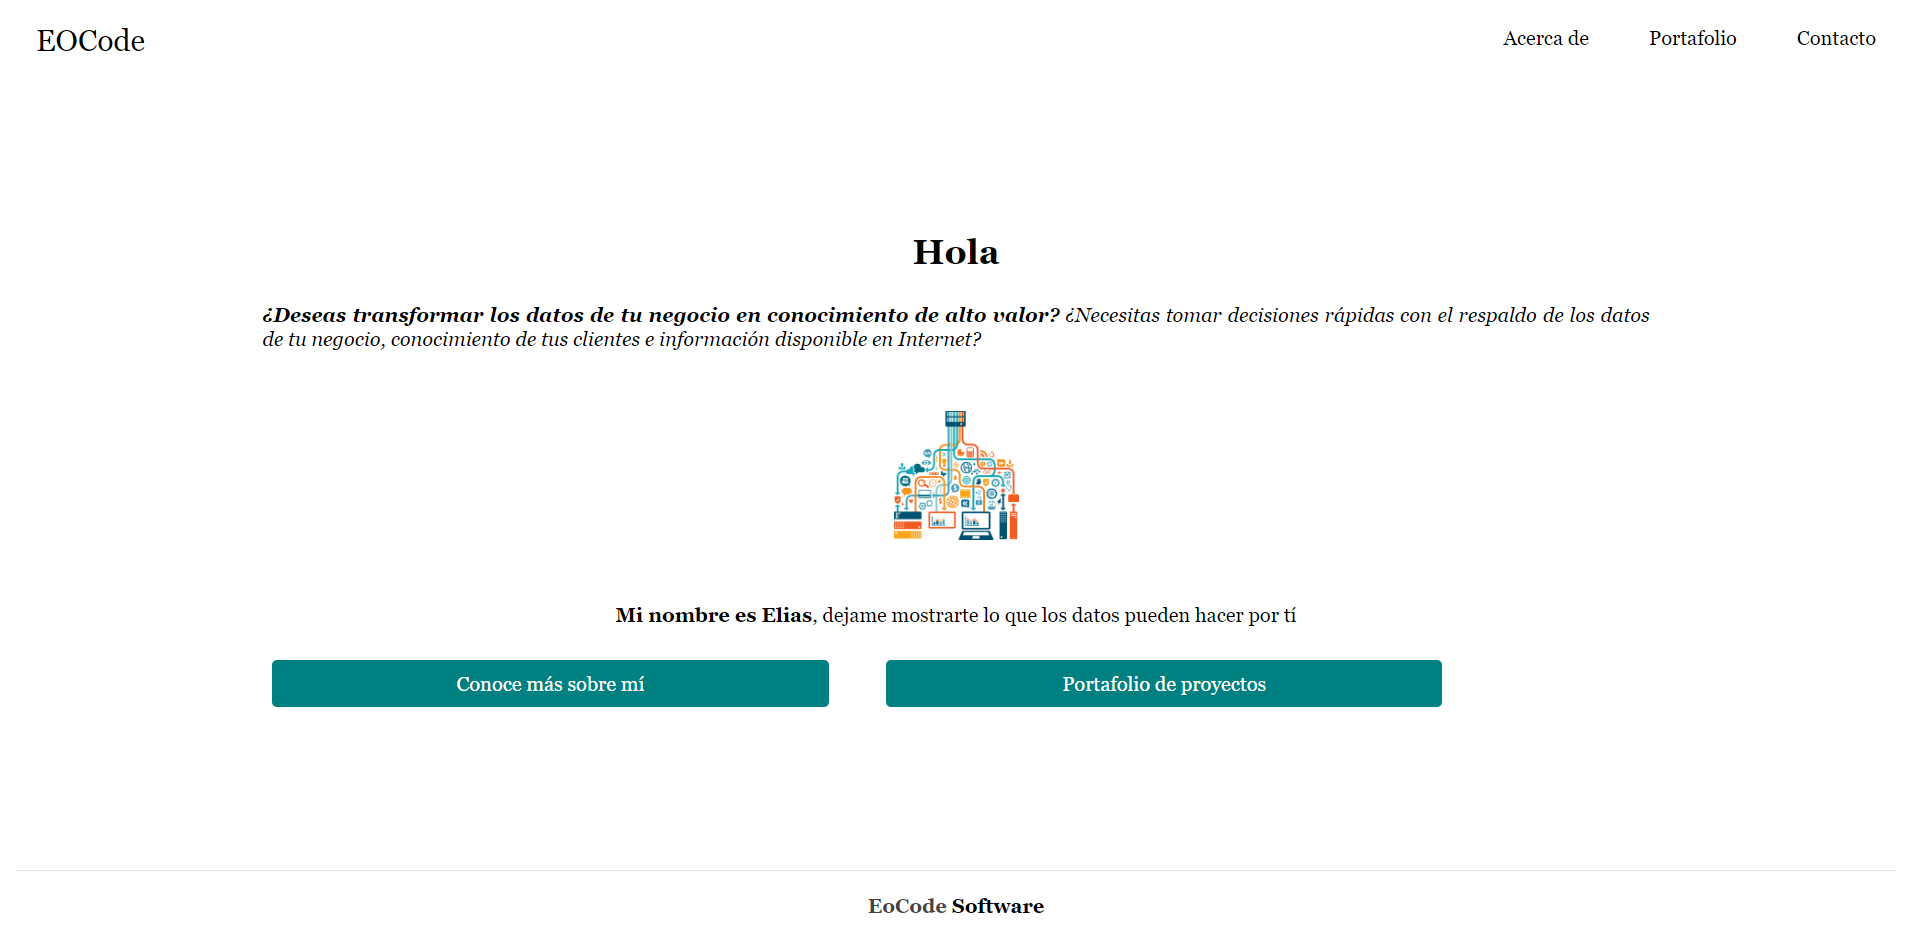
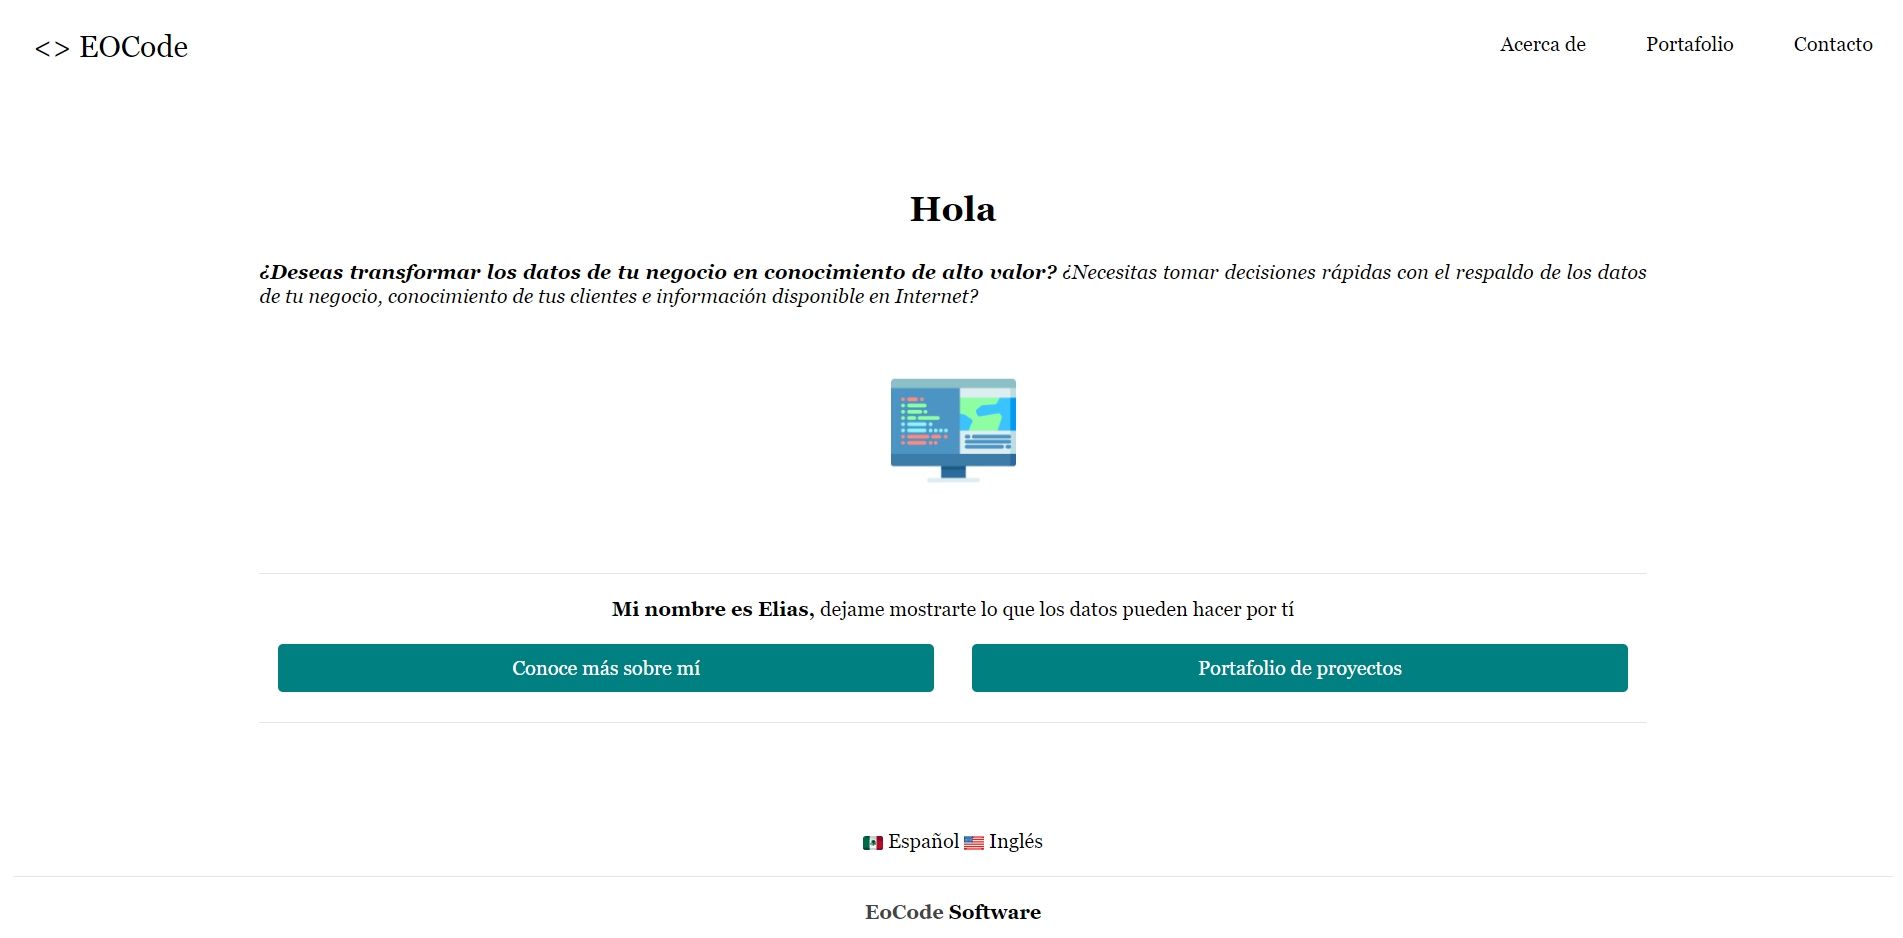
:rocket: Update translations in home

diff --git a/core/templates/core/home.html b/core/templates/core/home.html
@@ -11,9 +11,8 @@
             <h3 class="font-weight-bold pt-4 mb-4  text-center">{% trans "Bienvenido" %}</h3>
 
             <h6 class="font-italic mb-5 text-justify">
-                <b>¿Deseas transformar los datos de tu negocio en conocimiento de alto valor?</b>
-                ¿Necesitas tomar decisiones rápidas con el respaldo de los datos de tu negocio, conocimiento de tus
-                clientes e información disponible en Internet?
+                <b>{% trans "¿Deseas transformar los datos de tu negocio en conocimiento de alto valor?" %}</b>
+                {% trans "¿Necesitas tomar decisiones rápidas con el respaldo de los datos de tu negocio, conocimiento de tus clientes e información disponible en Internet?" %}
             </h6>
 
             <div class="row mx-lg-5 mx-md-3 text-center">
@@ -26,19 +25,25 @@
                 </div>
             </div>
 
-            <p class="text-center"><b>Mi nombre es Elias</b>, dejame mostrarte lo que los datos pueden hacer por tí</p>
-            <div class="row">
-                <div class="col-sm-5 m-2">
+            <hr>
+
+            <p class="text-center">
+                <b>{% trans "Mi nombre es Elias, " %}</b>{% trans "dejame mostrarte lo que los datos pueden hacer por tí" %}
+            </p>
+            <div class="row mx-auto">
+                <div class="col-sm-6 mb-2">
                     <a class="btn btn-app btn-block" href="{% url 'about' %}">
-                        Conoce más sobre mí
+                        {% trans "Conoce más sobre mí" %}
                     </a>
                 </div>
-                <div class="col-sm-5 m-2">
+                <div class="col-sm-6">
                     <a class="btn btn-app btn-block" href="{% url 'portfolio' %}">
-                        Portafolio de proyectos
+                        {% trans "Portafolio de proyectos" %}
                     </a>
                 </div>
             </div>
+
+            <hr>
 
         </section>
         <!--Section: Content-->

diff --git a/core/templates/core/base.html b/core/templates/core/base.html
@@ -30,6 +30,26 @@
     </main>
 
     <footer class="mastfoot mt-auto">
+        {% load i18n %}
+        <div class="sm-12 text-center">
+            {% get_current_language as LANGUAGE_CODE %}
+            {% get_available_languages as LANGUAGES %}
+            {% get_language_info_list for LANGUAGES as languages %}
+            {% for language in languages %}
+                {% if language.code == 'es' %}
+                    <a href="/{{ language.code }}"><img src="https://image.flaticon.com/icons/svg/630/630615.svg"
+                                                        width="16"
+                                                        alt="language es">
+                        Español</a>
+                {% endif %}
+                {% if language.code == 'en' %}
+                    <a href="/{{ language.code }}"><img src="https://image.flaticon.com/icons/svg/412/412828.svg"
+                                                        width="16"
+                                                        alt="language en">
+                        Inglés</a>
+                {% endif %}
+            {% endfor %}
+        </div>
         <hr/>
         <div class="inner text-center">
             <strong>EoCode <a href="https://eliasojedamedina.com/">Software</a></strong>

diff --git a/README.md b/README.md
@@ -13,6 +13,7 @@ Practice Django with a page with personal info and contact
 * ❎ SSR with React
 * ❎ RESTFULL API
 * ❎ GraphQL API
+* ❎ Google Cloud Deploy
 
 # Preview
 
